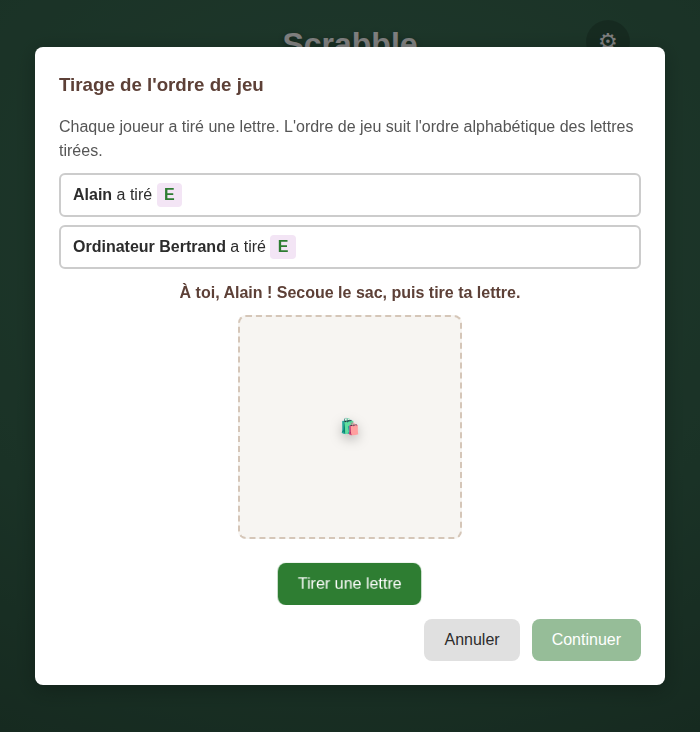
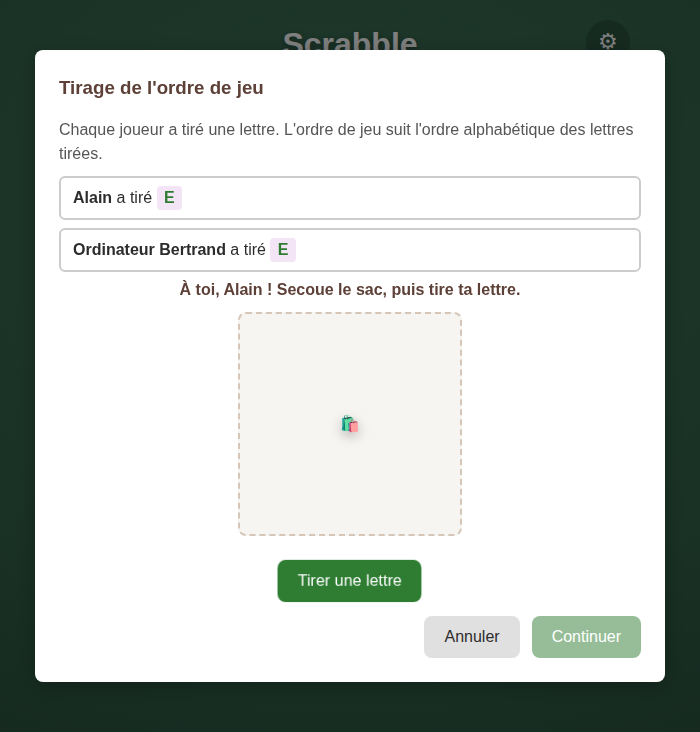
Issue #117 : resserrer l'espace entre la liste des tirages et la consigne du sac
Marge basse de .tirage-lettres 12 -> 6px et marge haute de .tirage-sac-zone
4 -> 0px : le gap effectif (marges fusionnées) passe de 12 à 6px. La consigne
« À toi, X ! » suit plus naturellement la ligne « X a tiré », tout en gardant
une séparation visuelle nette. Ajustement purement cosmétique, sans lien avec
l'épinglage du bouton (#116) qui reste protégé.

diff --git a/src/scrabble/ui/web/accueil.css b/src/scrabble/ui/web/accueil.css
@@ -550,8 +550,12 @@ section h2 {
     display: flex;
     flex-direction: column;
     gap: 8px;
-    /* Marge basse resserrée 16 -> 12 (issue #115). */
-    margin-bottom: 12px;
+    /* Marge basse resserrée 16 -> 12 (issue #115), puis 12 -> 6 (issue #117)
+       pour rapprocher la consigne du sac de la ligne « X a tiré » : l'espace
+       vide qui subsistait sous la liste était trop généreux. La marge se
+       fusionne (collapse) avec l'ex-marge haute de .tirage-sac-zone ; on garde
+       6px, assez pour une séparation visuelle nette sans les coller. */
+    margin-bottom: 6px;
 }
 
 .tirage-lettres li {
@@ -621,8 +625,11 @@ section h2 {
     gap: 10px;
     /* Consigne + aire du sac uniquement (issue #116) : le bouton « Tirer une
        lettre » a quitté cette zone scrollable pour être épinglé plus bas
-       (.tirage-sac-action). Marge basse conservée pour aérer avant le bouton. */
-    margin: 4px 0 12px;
+       (.tirage-sac-action). Marge basse conservée pour aérer avant le bouton.
+       Marge haute supprimée (4 -> 0, issue #117) : c'est désormais la seule
+       marge basse resserrée de .tirage-lettres (6px) qui règle l'écart avec la
+       ligne « X a tiré », sans double espacement. */
+    margin: 0 0 12px;
 }
 
 .tirage-sac-consigne {